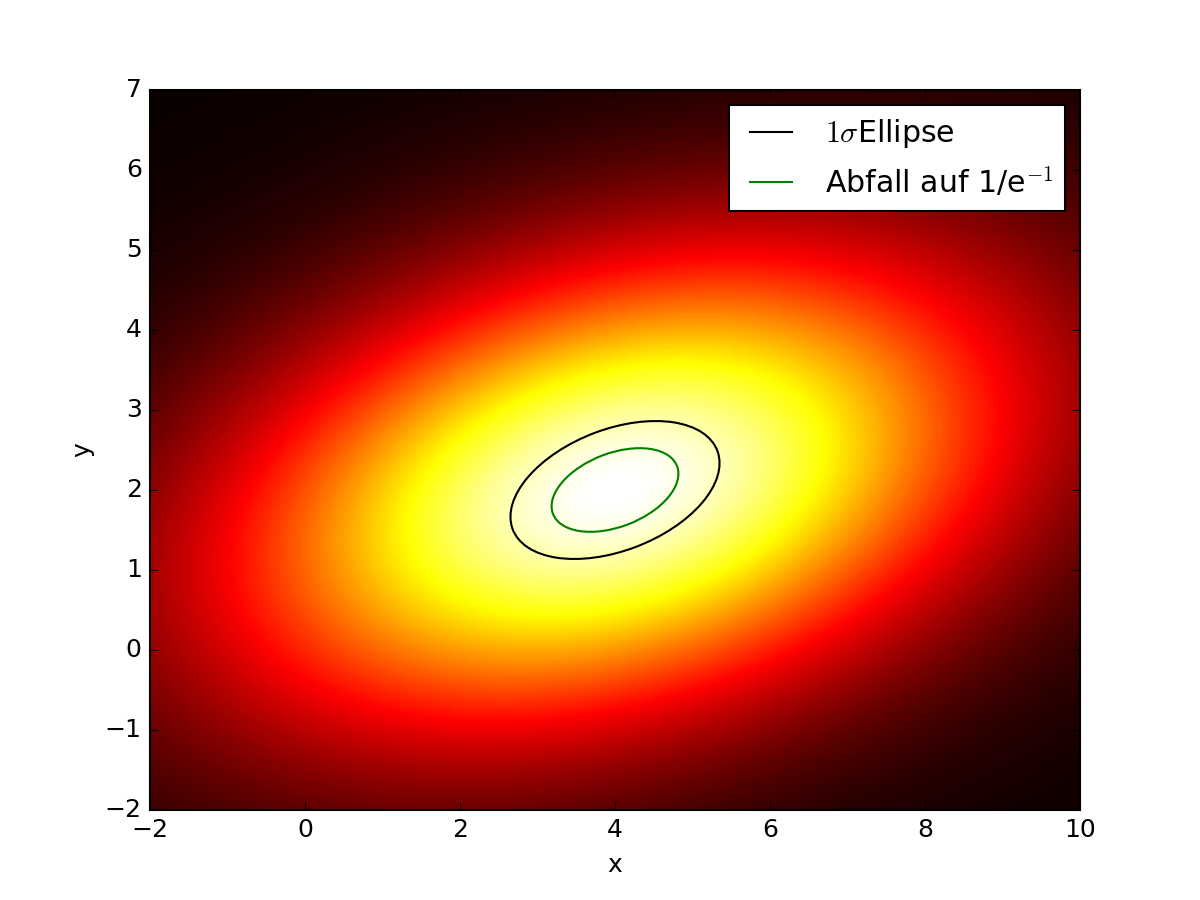
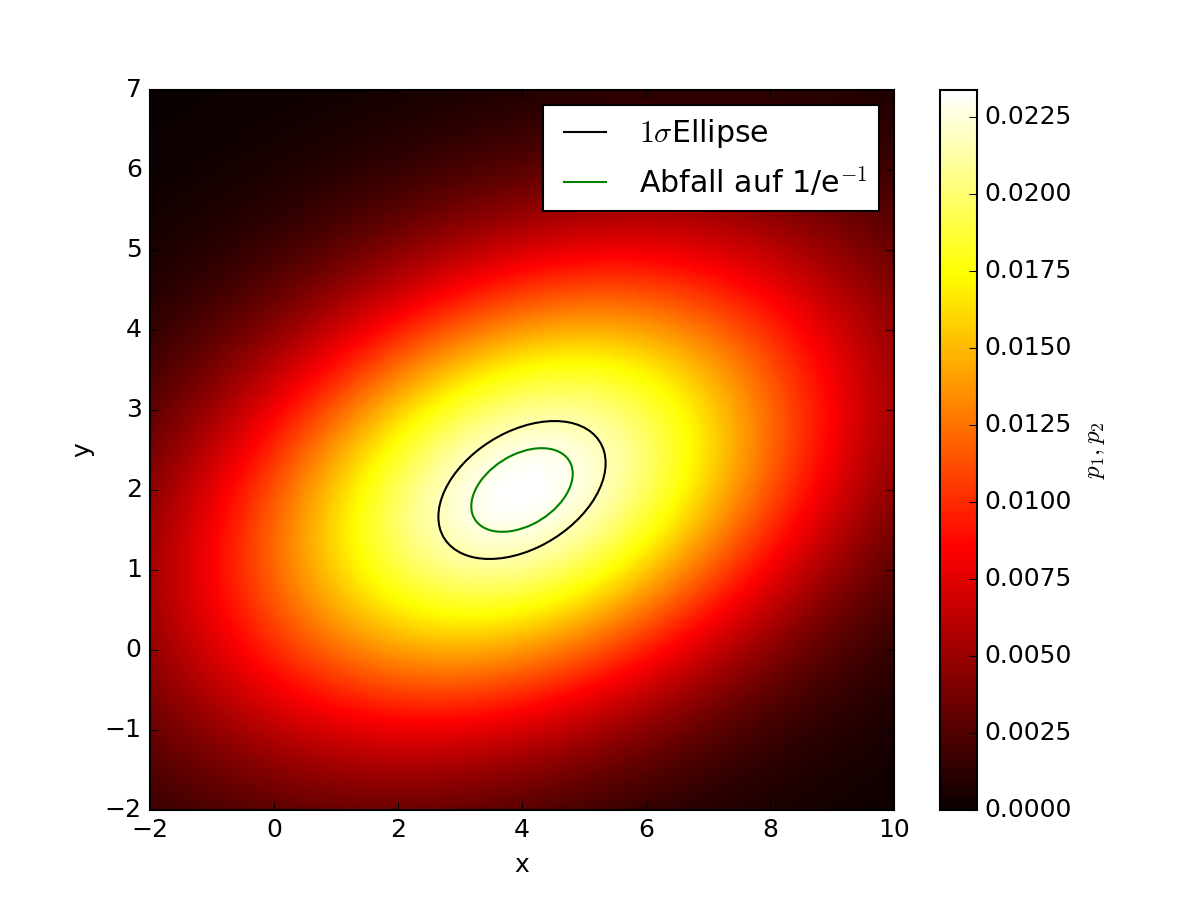
fast abgabefertig

diff --git a/Blatt01/aufgabe4.py b/Blatt01/aufgabe4.py
@@ -60,12 +60,12 @@ def aufg4():
 	m_2=np.tan(2*np.pi*(np.rad2deg(alpha)+90)/360)
 	
 	#Plotten der Geraden u und v 
-	u = np.linspace(2.69,4)
-	plt.plot(u, 2-m_1*4+m_1*u, 'k.', label='Halbachsen')
-	v = np.linspace(3.75, 4) 
-	plt.plot(v, 2-m_2*4+m_2*v, 'k.')
-	print(p_1/2,p_2/2)
-	print(np.rad2deg(alpha))
+	#u = np.linspace(2.69,4)
+	#plt.plot(u, 2-m_1*4+m_1*u, 'k--', label='Halbachsen')
+	#v = np.linspace(3.75, 4) 
+	#plt.plot(v, 2-m_2*4+m_2*v, 'k--')
+	#print(p_1/2,p_2/2)
+	#print(np.rad2deg(alpha))
 	#Ellipsen plotten 
 	plt.axes()
 	ax = plt.gca()
@@ -78,17 +78,16 @@ def aufg4():
 	plt.gca().add_patch(ellipse)
 	plt.gca().add_patch(ellipse_2)
 	#Errorbars dazu
-	errX = sigma_1
-	errY = sigma_2
-	plt.errorbar(a_1 , a_2 , xerr=errY, yerr=errY, fmt='x',label="$\mu_x\pm\sigma_x,\mu_y\pm\sigma_y$")
+	#errX = sigma_1
+	#errY = sigma_2
+	#plt.errorbar(a_1 , a_2 , xerr=errY, yerr=errY, fmt='x',label="$\mu_x\pm\sigma_x,\mu_y\pm\sigma_y$")
 	plt.xlabel(r'x')
 	plt.ylabel(r'y')
 	plt.plot(0,0,'k-',label='$1\sigma$Ellipse')
 	plt.plot(0,0,'g-',label='Abfall auf 1/e$^{-1}$')
-	plt.colorbar(x,orientation='vertikal')
 	plt.legend(loc='best')
-
-	plt.savefig("plot_4e.png", dpi=150)
+	plt.colorbar().set_label('$p_1,p_2$' )
+	plt.savefig("plot_4b.png", dpi=150)
 	plt.show()
 
 
